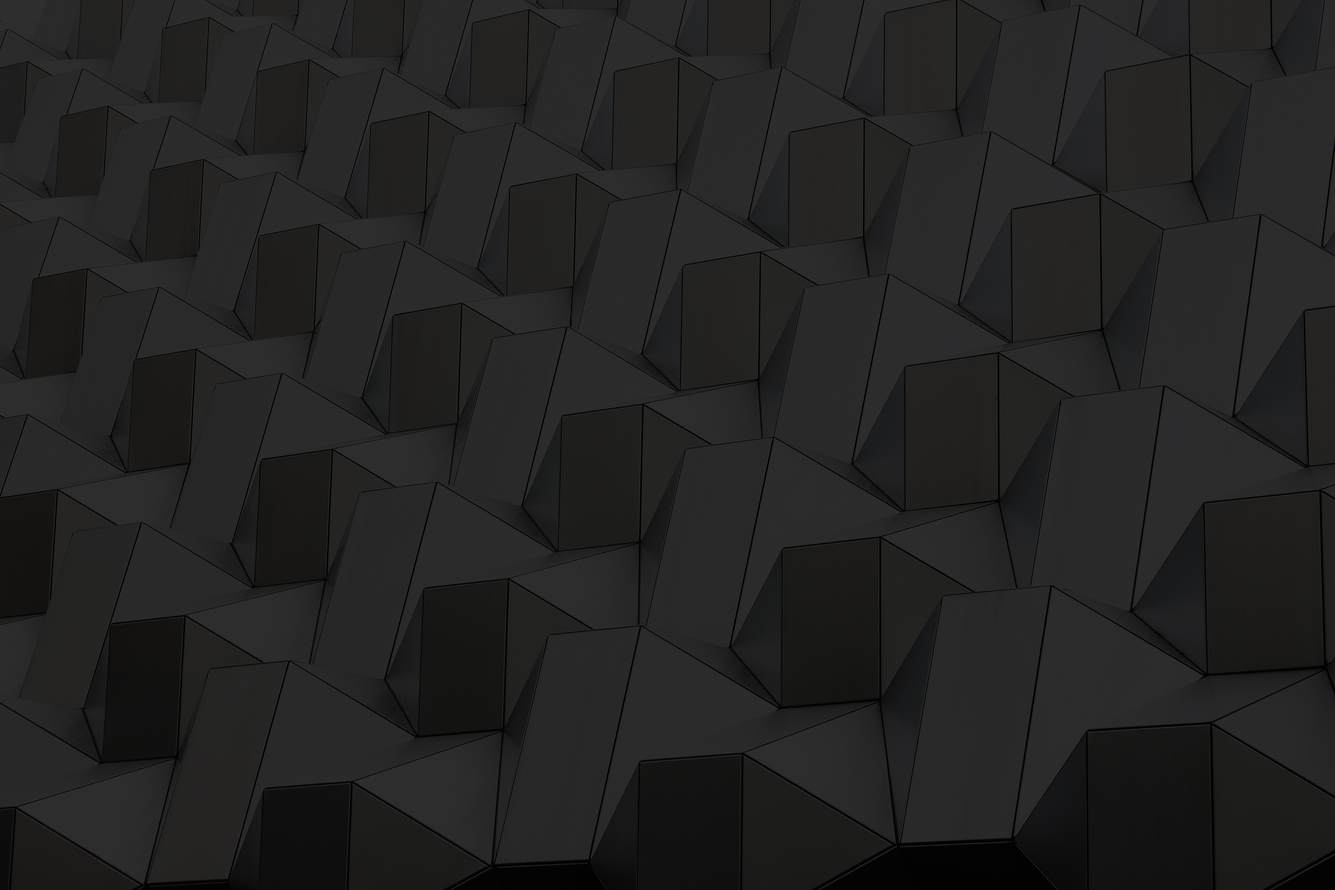
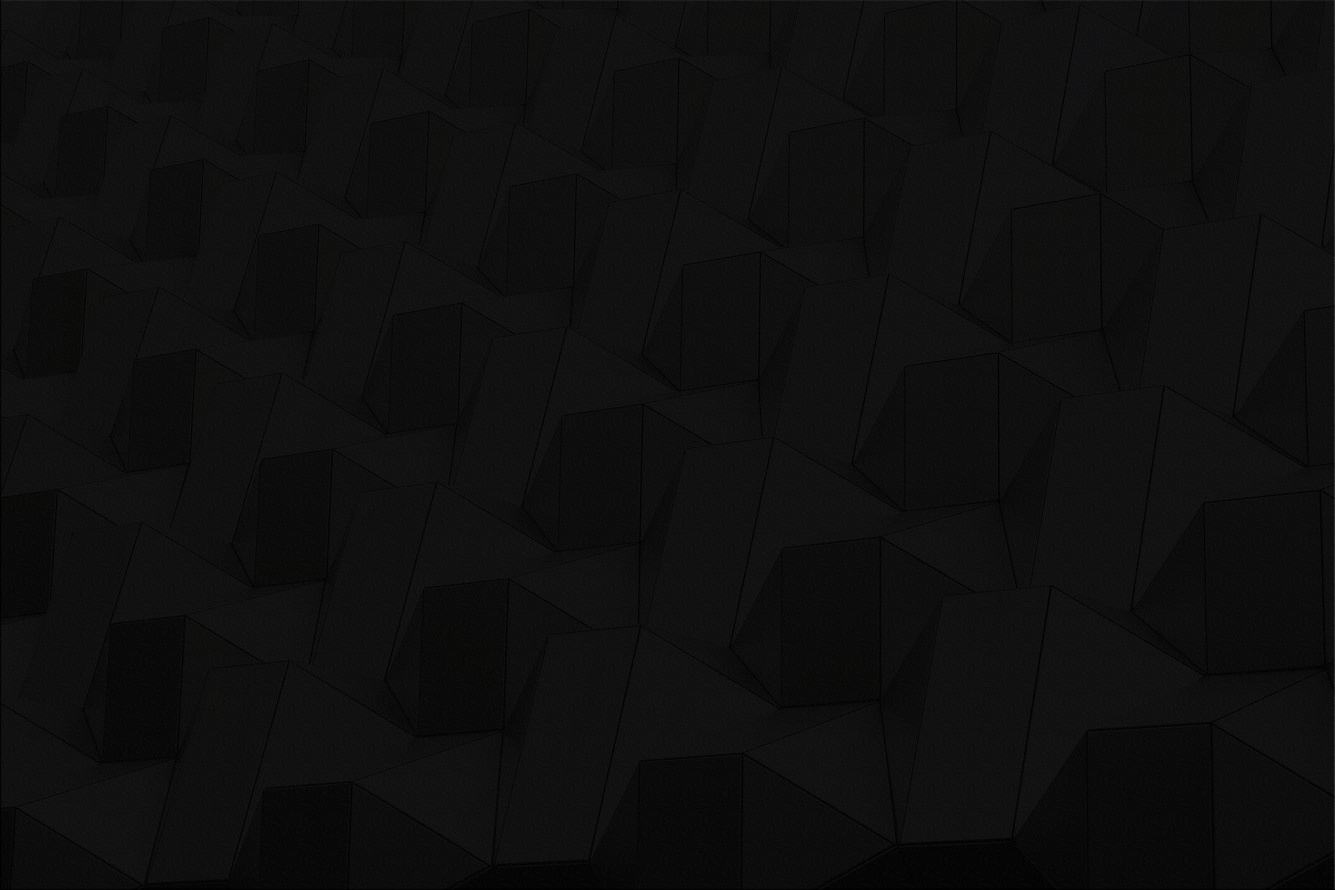
add bg and style changes

diff --git a/js/app.js b/js/app.js
@@ -19,19 +19,19 @@ $(document).ready(function() {
       scrollTop: $("#projects").offset().top
     }, 1000);
   })
-
-  // $('#projects-link').hover(function() {
-  //   $(this).html('under construction - <a href="http://github.com/ratley" target="_blank">github</a>')
-  //   $(this).css('transition', 'color .2s ease')
-  //   $(this).css('color', 'gold')
-  // })
-  // $(this).css('color', 'gold')
-  // $(document).on('hover','#projects-link a', function() {
-  // })
-  // $('#projects-link').on('mouseleave', function() {
-  //   $(this).text('projects')
-  //   $(this).css('color', '#616161')
-  // })
+{/* <a href="http://github.com/ratley" target="_blank">github</a> */}
+  $('#projects-link').hover(function() {
+    $(this).html('under construction')
+    $(this).css('transition', 'color .5s ease')
+    $(this).css('color', 'gold')
+  })
+  $(this).css('color', 'gold')
+  $(document).on('hover','#projects-link a', function() {
+  })
+  $('#projects-link').on('mouseleave', function() {
+    $(this).text('projects')
+    $(this).css('color', '#616161')
+  })
 
 
   checkLocation()

diff --git a/css/style.css b/css/style.css
@@ -1,6 +1,8 @@
 html,body {
 background-color: black;
 font-size: 1.4em;
+background: url('../images/bg1.jpg') no-repeat center center fixed;
+background-size: cover;
   /*background: -webkit-linear-gradient(Gainsboro,wheat);
   background: -o-linear-gradient(Gainsboro,wheat);
   background: -moz-linear-gradient(Gainsboro,wheat);
@@ -270,7 +272,8 @@ footer {
       font-size: .65em
     }
     #about {
-      top: 15%
+      top: 15%;
+
     }
     #nav {
       padding-left: 26px;
